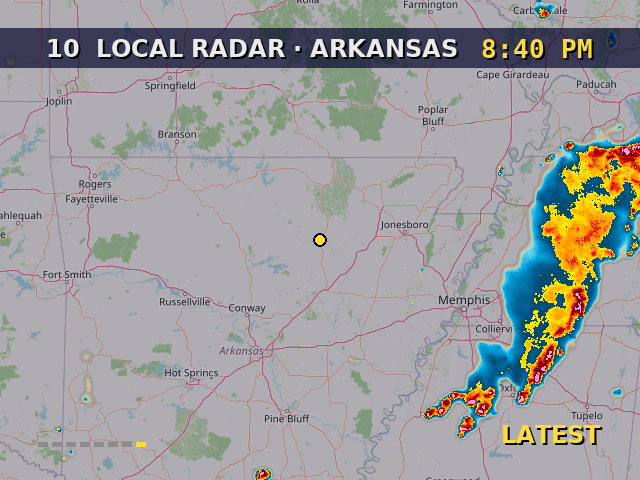
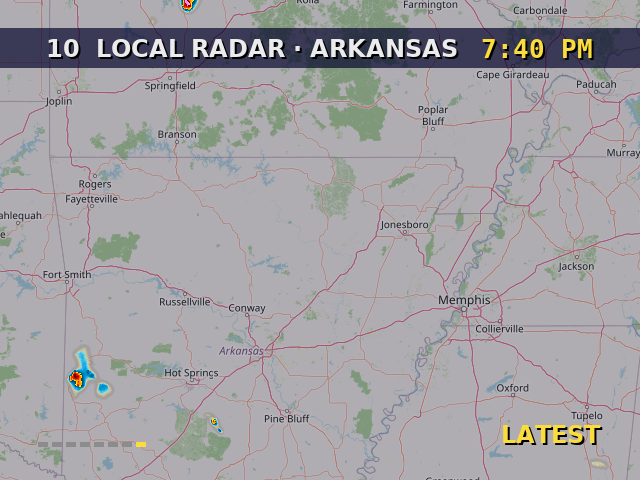
Identifier: assume the next side of a known record when Shazam misses the first track; faster retries

diff --git a/stereotv/identify.py b/stereotv/identify.py
@@ -194,6 +194,12 @@ class Identifier(threading.Thread):
         self.min_conf = float(ic.get("min_confidence", 0.55))
         self.recheck = float(ic.get("recheck_seconds", 150))   # locked, no durations: re-ID this often
         self.clear_after = float(ic.get("clear_after_seconds", 300))  # silence this long -> nothing playing
+        self.retry_interval = float(ic.get("retry_seconds", 20))      # quick retries right after audio starts...
+        self.retry_fast = int(ic.get("retry_attempts", 4))             # ...this many times, then `interval`
+        self.flip_window = float(ic.get("flip_window_seconds", 240))  # a gap shorter than this = side flip
+        self.last_rel: Release | None = None                           # last release we positively matched
+        self.last_side: str | None = None
+        self.flip_candidate = False                                    # audio resumed within flip_window
         self.verify_delay = float(ic.get("verify_seconds", 20))  # after a clocked advance, confirm
         self.track_end_at: float | None = None
         self.track_ref: tuple[int, int] | None = None            # (release_id, seq) the clock is on
@@ -232,6 +238,7 @@ class Identifier(threading.Thread):
         audio_since = 0.0
         last_try = 0.0
         matched = False
+        attempts = 0
         while not self._stop.is_set():
             time.sleep(0.5)
             if not self.audio.alive:
@@ -245,8 +252,11 @@ class Identifier(threading.Thread):
                     if t - silent_since >= self.silence_gap:
                         matched = False
                         self.track_end_at = self.track_ref = self.verify_at = None
+                        # a short gap after a known record is most likely its next side
+                        self.flip_candidate = bool(self.last_rel) and (t - silent_since) <= self.flip_window
+                        attempts = 0
                     playing, audio_since = True, t
-                    log.debug("audio started")
+                    log.debug("audio started (flip candidate=%s)", self.flip_candidate)
             else:
                 if playing:
                     playing, silent_since = False, t
@@ -283,17 +293,24 @@ class Identifier(threading.Thread):
                 else:
                     self.now.set_status("LOCKED")
                 continue
-            if t - audio_since < self.settle or t - last_try < self.interval:
+            gap = self.retry_interval if attempts < self.retry_fast else self.interval
+            if t - audio_since < self.settle or t - last_try < gap:
                 self.now.set_status("LISTENING")
                 continue
 
             last_try = t
+            attempts += 1
             self.now.set_status("IDENTIFYING")
             try:
                 matched = self._identify(con)
             except Exception as e:  # noqa: BLE001
                 log.warning("identify failed: %s", e)
                 self.now.set_status("ID ERROR")
+            if not matched and self.flip_candidate:
+                # Shazam doesn't know this track; assume the next side of the record that just ended
+                self.flip_candidate = False
+                if self._presume_next_side(con, t):
+                    matched = True
 
     def _identify(self, con: sqlite3.Connection) -> bool:
         wav = self.audio.write_wav(self.tmp, self.clip)
@@ -332,6 +349,8 @@ class Identifier(threading.Thread):
         log.info("matched %s - %s (conf %.2f) %s", rel.artist, rel.title, conf,
                  f"side {side} trk {pos}" if side else "")
         self._start_clock(rel.release_id, track, rec.offset)
+        self.last_rel, self.last_side = rel, side or self.last_side
+        self.flip_candidate = False
         self.now.set_status("MATCHED")
         return True
 
@@ -351,6 +370,32 @@ class Identifier(threading.Thread):
             self.now.set(rel, source=rec.engine, confidence=0.0, track_title=rec.track)
         self.prev_rec = rec
         self.track_end_at = self.track_ref = self.verify_at = None
+
+    # ------------------------------------------------------------ side-flip presumption
+    def _presume_next_side(self, con: sqlite3.Connection, t: float) -> bool:
+        """After a short silence following a known record, assume its next side, track 1.
+        The track clock runs from there and every track boundary verifies with Shazam."""
+        rel, side = self.last_rel, self.last_side
+        if not rel or rel.release_id <= 0 or not side:
+            return False
+        tracks = con.execute("SELECT * FROM tracks WHERE release_id=? ORDER BY seq", (rel.release_id,)).fetchall()
+        sides: list[str] = []
+        for tr in tracks:
+            sd = _split_position(tr["position"])[0]
+            if sd and sd not in sides:
+                sides.append(sd)
+        if side.upper() not in sides or sides.index(side.upper()) + 1 >= len(sides):
+            return False                                  # last side already: could be anything next
+        nxt = sides[sides.index(side.upper()) + 1]
+        first = next(tr for tr in tracks if _split_position(tr["position"])[0] == nxt)
+        s2, pos = _split_position(first["position"])
+        self.now.set(rel, source="auto", confidence=0.3, side=s2, track=pos, track_title=first["title"])
+        self._start_clock(rel.release_id, dict(first), offset=-self.clip)   # clip just started: position 0
+        self.verify_at = t + self.verify_delay
+        self.last_side = s2
+        log.info("presumed side %s of %s - %s (unrecognised first track)", s2, rel.artist, rel.title)
+        self.now.set_status("PRESUMED")
+        return True
 
     # ------------------------------------------------------------ track clock
     def _start_clock(self, release_id: int, track: dict | None, offset: float | None) -> None:
@@ -385,6 +430,7 @@ class Identifier(threading.Thread):
             self.verify_at = t + self.verify_delay
             return
         side, pos = _split_position(nxt["position"])
+        self.last_side = side or self.last_side
         self.now.set_track(side, pos, nxt["title"])
         log.info("track clock: advanced to %s %s", nxt["position"], nxt["title"])
         dur = parse_duration(nxt["duration"])
